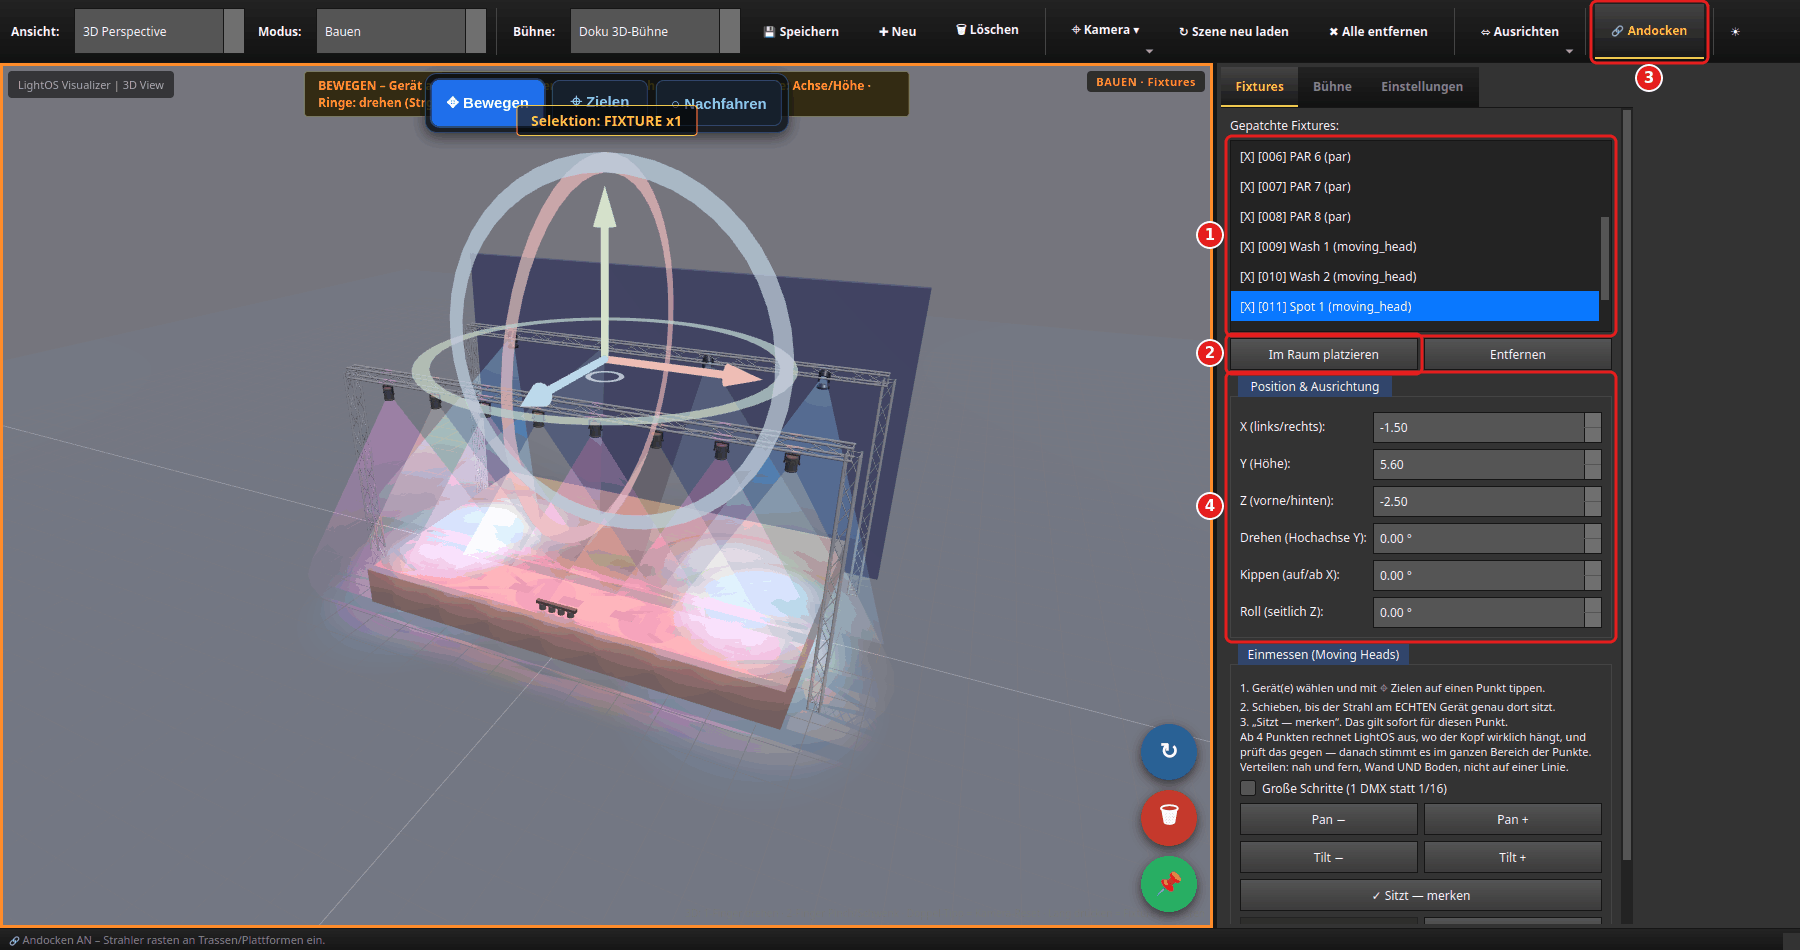
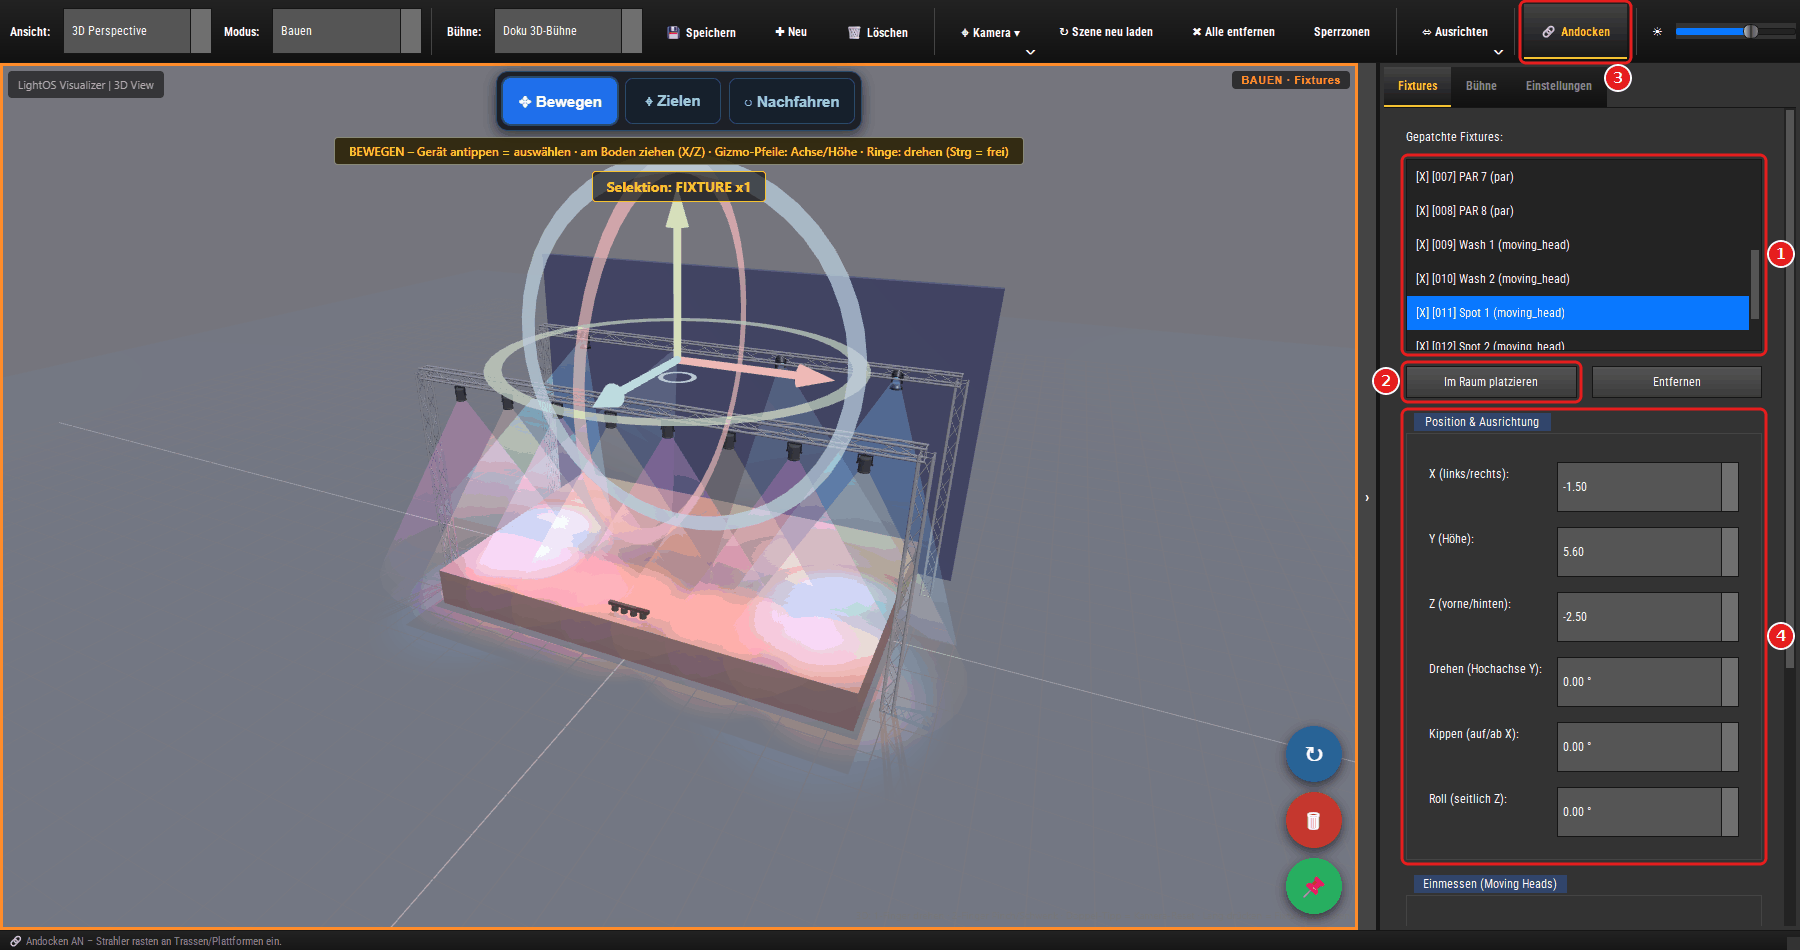
docs: 3D-Visualizer-Anleitung - Bilder am echten Bildschirm neu (DOC-73, 3D-Teil)
tools/anleitungsbilder.py 3d_buehne --bildschirm (Windows 11 x64, Radeon
RX 580, main c9e46cb0). Angefordert: 05_einstellungen, 02_buehne_bauen
(breite Namensspalte, VIZ-108/VIZ-75), 03_geraet_platzieren (Banner und
Werkzeugleiste ueberlappen nach VIZ-73 nicht mehr). Mitgenommen die
uebrigen vier Bilder derselben Anleitung: der alte Satz war laut
bilder.json mit der Ersatzschrift Noto Sans und Qt 6.11 entstanden, das
Manifest beschreibt den Satz mit einer Schrift (jetzt Roboto Condensed,
Qt 6.12). Alle sieben angesehen. Offen: (5) Bildbeleg Laengs-Falloff.

diff --git a/backlog.d/DOC-73.md b/backlog.d/DOC-73.md
@@ -1,0 +1,5 @@
+ID: DOC-73
+Status: teils
+Status-Notiz: 3D-Bilder (1)–(3) am echten Bildschirm neu (ganzer Satz der 3D-Anleitung); offen: (5) Bildbeleg Längs-Falloff (Ziel klären), Schichten-Schaubild der Prioritäten-Anleitung
+
+**3D-Teil (Sitzung D, 02.11.2026, Windows 11 x64, Radeon RX 580, `tools/anleitungsbilder.py 3d_buehne --bildschirm`, main c9e46cb0):** (1) `05_einstellungen.png`, (2) `02_buehne_bauen.png` (breite Namensspalte nach VIZ-108/VIZ-75) und (3) `03_geraet_platzieren.png` (Hinweis-Banner und Werkzeugleiste überlappen nach VIZ-73 nicht mehr) neu aufgenommen und angesehen. Mitgenommen: die übrigen vier Bilder derselben Anleitung (`01_uebersicht`, `04_kamera`, `06_top_down`, `07_moving_heads.gif`) — der alte Satz war laut `bilder.json` mit der Ersatzschrift Noto Sans und Qt 6.11 entstanden, das Manifest beschreibt den ganzen Satz mit einer Schrift; jetzt Roboto Condensed, Qt 6.12. Offen: (5) Bildbeleg Längs-Falloff (VIZ-15) — dafür gibt es noch keine Szene und kein Zielbild.

diff --git a/changelog.d/2026-11-02-DOC-73.md b/changelog.d/2026-11-02-DOC-73.md
@@ -1,0 +1,5 @@
+### 2026-11-02 — Bilder der 3D-Visualizer-Anleitung neu aufgenommen (DOC-73)
+
+#### Geändert
+
+- **3D-Visualizer-Anleitung:** Alle sieben Bilder sind am echten Bildschirm neu aufgenommen – mit der richtigen Schrift und dem aktuellen Stand: Bühne bauen mit lesbarer Namensspalte, Gerät platzieren ohne Überlappung von Hinweis und Werkzeugleiste, Einstellungen, Kamera, Draufsicht und das Moving-Head-GIF.
